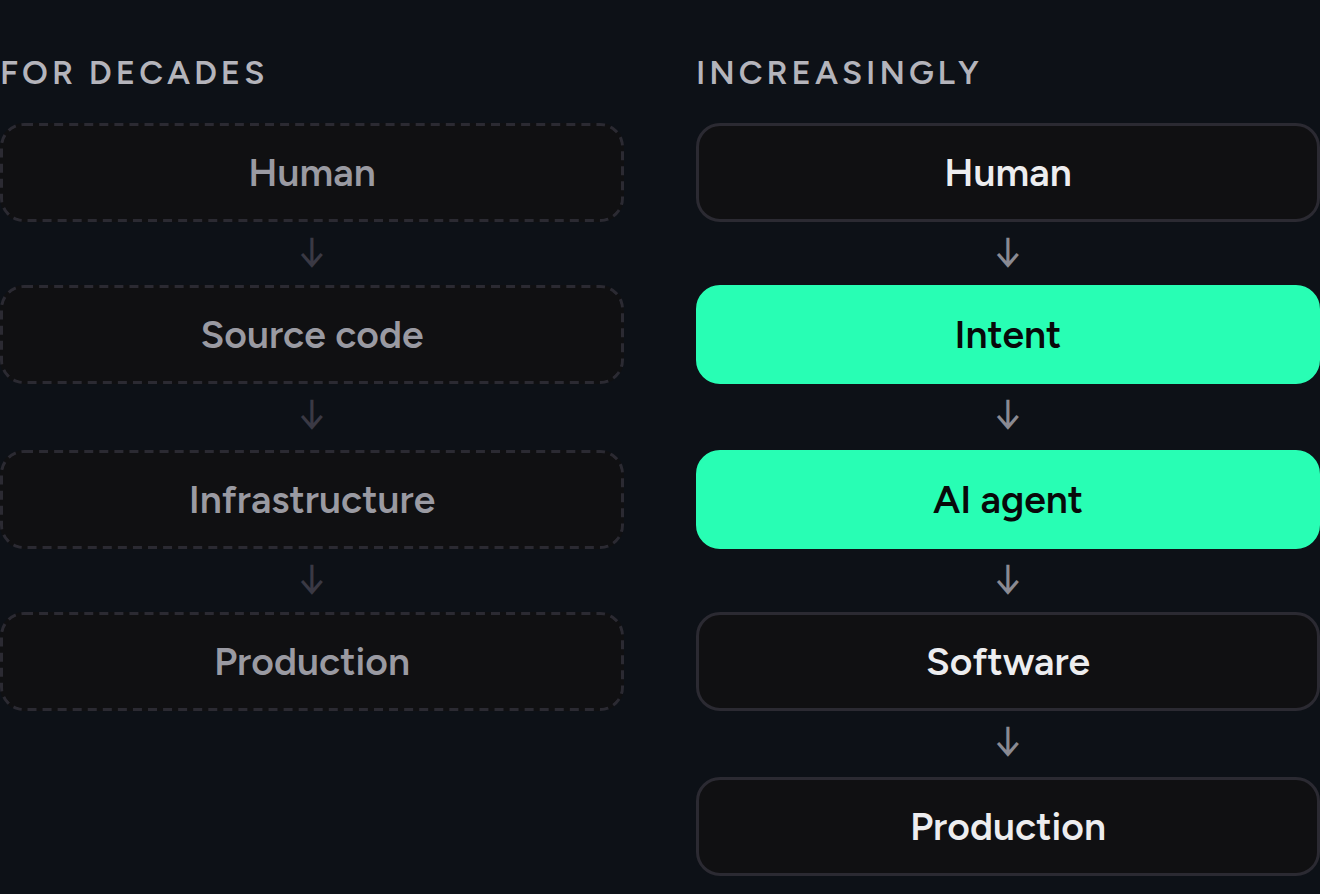
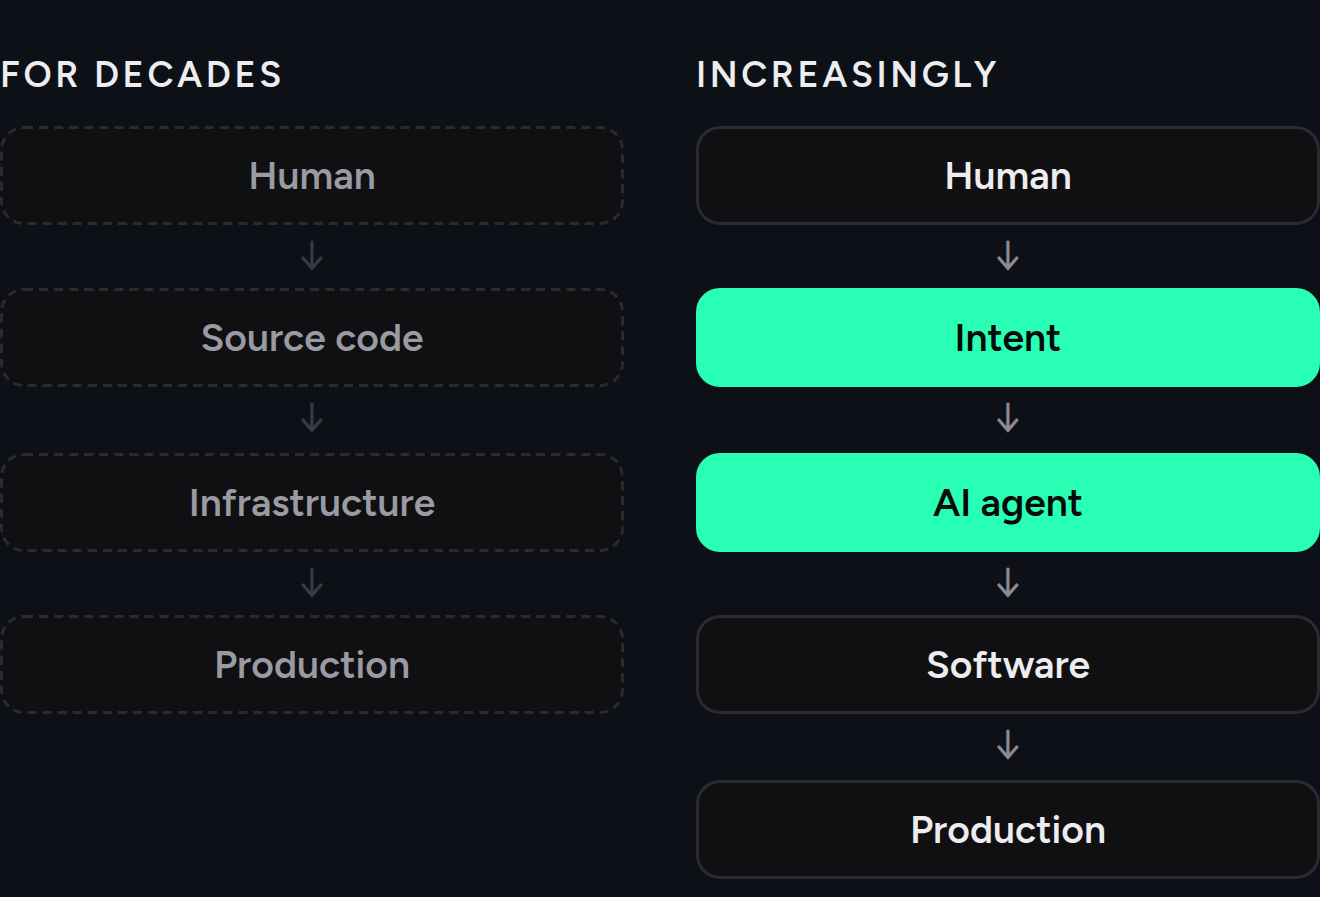
The vision lane labels read as titles, not captions
`For decades` and `Increasingly` title a whole lane each, and were the smallest
text in the set: 11px, which the narrow variant's 0.81 phone scale turns into
8.9px — under the 12px floor the rest of the diagrams hold to. Darkening them
from `dim` to `body` in #590 treated the symptom.

They are 12px in `text` now (#1F2328 against white, where they were #4A5259),
with the tracking eased from .12em to .1em so the extra size does not widen them,
and `.lane-l-row` goes 104 to 116px to fit `INCREASINGLY`. The vision diagram
grows a pixel; every other diagram is untouched.

The `promote` labels stay at 11px. They name the arrow between two stations
rather than any content and read better small, which the assets README now says
so the next pass does not "fix" them.

Claude-Session: https://claude.ai/code/session_01EvoZVi9sNowJbKd7zzzNvL

diff --git a/.github/assets/diagrams/diagrams.py b/.github/assets/diagrams/diagrams.py
@@ -196,7 +196,7 @@ def vision(t):
                                ('Production', 0)], True)
     new = lane('Increasingly', [('Human', 0), ('Intent', 1), ('AI agent', 1), ('Software', 0),
                                 ('Production', 0)], False)
-    return f'<div class="d" style="width:440px;height:298px"><div class="lanes">{old}{new}</div></div>'
+    return f'<div class="d" style="width:440px;height:299px"><div class="lanes">{old}{new}</div></div>'
 
 # ================================================================ wide variants
 # Same content and type scale as the narrow set, laid out for a desktop column.
@@ -403,8 +403,8 @@ background:{t['panel']}}}
 font:500 11px 'Fira Code',monospace;letter-spacing:.04em;color:{t['muted']}}}
 {p} .lanes{{display:grid;grid-template-columns:repeat(2,minmax(0,1fr));gap:24px}}
 {p} .lane{{display:flex;flex-direction:column;gap:10px}}
-{p} .lane-l{{font:600 11px 'Figtree',sans-serif;letter-spacing:.12em;text-transform:uppercase;
-color:{t['body']}}}
+{p} .lane-l{{font:600 12px 'Figtree',sans-serif;letter-spacing:.1em;text-transform:uppercase;
+color:{t['text']}}}
 {p} .lane-c{{display:flex;flex-direction:column;align-items:center;gap:3px}}
 {p} .v-chip{{font:600 13px 'Figtree',sans-serif;color:{t['text']};border:1px solid {t['line']};
 border-radius:8px;padding:8px 12px;background:{t['chip']};width:100%;text-align:center}}
@@ -423,7 +423,7 @@ border-radius:8px;padding:8px 12px;background:{t['chip']};width:100%;text-align:
 {p} .tile-core-row{{flex-direction:row;align-items:baseline;justify-content:flex-start;gap:12px}}
 {p} .lanes-row{{display:flex;flex-direction:column;gap:18px}}
 {p} .lane-row{{flex-direction:row;align-items:center;gap:14px}}
-{p} .lane-l-row{{width:104px;flex:none;text-align:right}}
+{p} .lane-l-row{{width:116px;flex:none;text-align:right}}
 {p} .lane-r{{display:flex;align-items:center;gap:8px}}
 {p} .v-arrow{{color:{t['dim']};font-size:14px}}
 {p} .v-chip-row{{width:auto}}
@@ -440,7 +440,7 @@ SPECS = [
     ('architecture', 'Architecture',
      (architecture, 440, 785), (w_architecture, 880, 498)),
     ('vision', 'The vision',
-     (vision, 440, 298), (w_vision, 660, 108)),
+     (vision, 440, 299), (w_vision, 660, 108)),
 ]
 
 ROOT = os.path.dirname(os.path.dirname(os.path.dirname(os.path.dirname(

diff --git a/.github/assets/README.md b/.github/assets/README.md
@@ -73,8 +73,12 @@ carries the narrow layout and its own width as the fallback every client can ren
 ### Constraints the source respects
 
 **A 15px floor on labels, 12px on sub-labels.** At the 0.81 scale a 440px-wide diagram takes
-on a phone, those land at 12.2px and 9.8px. Anything smaller stops being readable there.
+on a phone, those land at 12.2px and 9.8px. Anything smaller stops being readable there — the
+vision lane labels sat at 11px and were the first thing anyone noticed on a phone.
 `environments` is 300px wide — under the phone's column — so it never scales at all.
+
+The `promote` labels are the deliberate exception at 11px. They name the arrow between two
+stations rather than any content, and they read better small; leave them there.
 
 **Type is the repo's own.** `diagrams.py` loads `website/public/fonts/figtree-latin.woff2`
 and `fira-code-latin.woff2` by absolute path, so the PNGs carry Figtree and Fira Code
